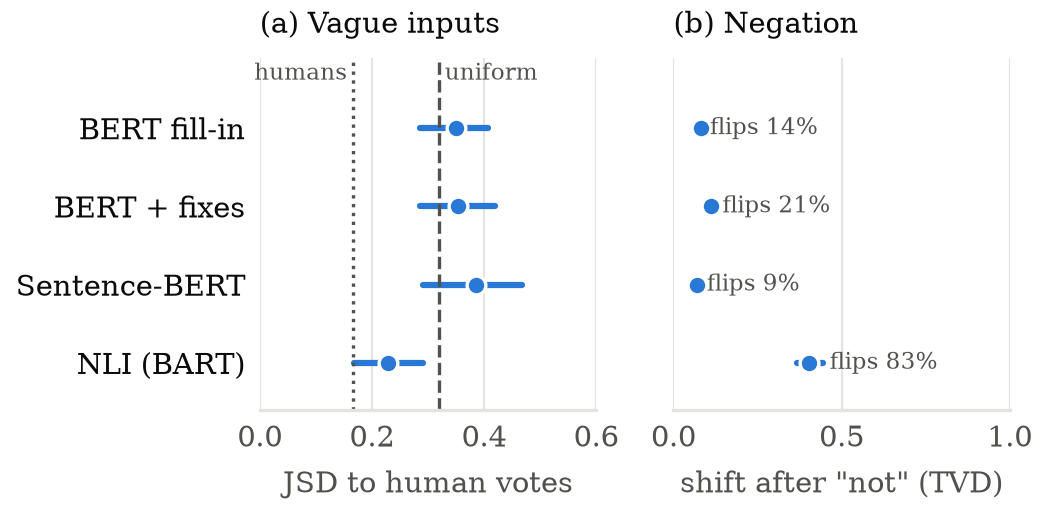
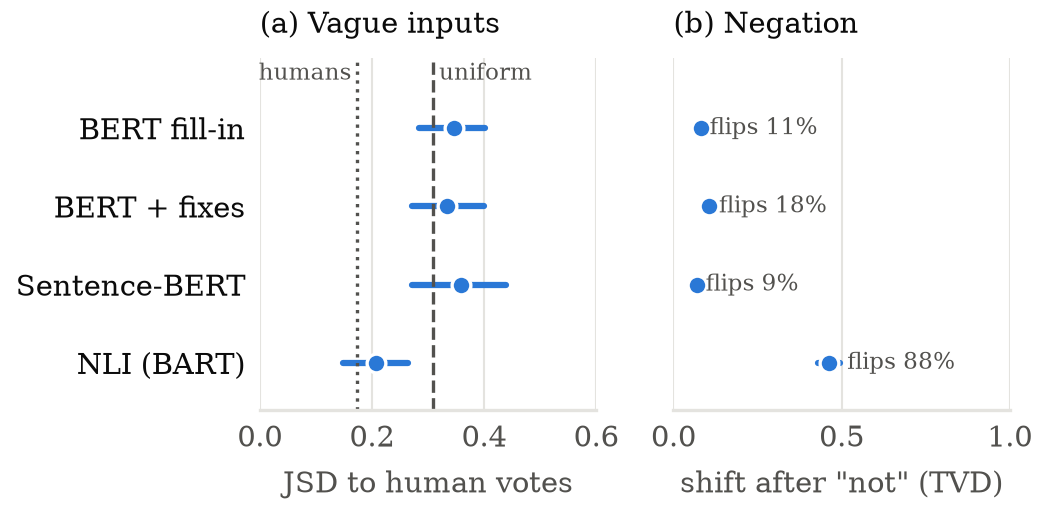
Re-run report tables with the invented world; update STATUS for Divergent and tables

diff --git a/results/report/fig1_q3.tex b/results/report/fig1_q3.tex
@@ -1,6 +1,6 @@
 \begin{figure}[t]
 \centering
 \includegraphics[width=\columnwidth]{fig1_q3.pdf}
-\caption{Q3, with group descriptions. (a) Jensen--Shannon divergence between each model and the human votes (10 respondents after the attention check) on 17 vague items, with the JSD of a uniform guess and between two random halves of the respondents. (b) Total variation between a character's traits and the same traits each preceded by ``not'' (78 characters); lines are 95\% bootstrap CIs.}
+\caption{Q3, with group descriptions. (a) Jensen--Shannon divergence between each model and the human votes (10 respondents after the attention check) on 20 vague items, with the JSD of a uniform guess and between two random halves of the respondents. (b) Total variation between a character's traits and the same traits each preceded by ``not'' (110 characters); lines are 95\% bootstrap CIs.}
 \label{fig:q3}
 \end{figure}

diff --git a/results/report/table2_q1q2.tex b/results/report/table2_q1q2.tex
@@ -11,6 +11,7 @@ World & Chance & Human & BERT fill-in & BERT + fixes & Sentence-BERT & NLI (BART
 Harry Potter & 25 & 70 & 24 {\tiny[12,38]} & 26 {\tiny[12,41]} & 44 {\tiny[26,62]} & 50 {\tiny[32,68]} & 24$\to$24 (18) & 50$\to$41 (24) \\
 Avatar & 25 & -- & 14 {\tiny[4,29]} & 21 {\tiny[7,36]} & 29 {\tiny[14,46]} & 29 {\tiny[11,46]} & 11$\to$25 (21) & 36$\to$29 (29) \\
 Game of Thrones & 20 & -- & 19 {\tiny[0,38]} & 25 {\tiny[6,50]} & 31 {\tiny[12,56]} & 44 {\tiny[19,69]} & 19$\to$19 (12) & 19$\to$19 (19) \\
+Invented & 25 & 85 & 25 {\tiny[12,41]} & 22 {\tiny[9,38]} & 19 {\tiny[6,34]} & 97 {\tiny[91,100]} & 25$\to$25 (25) & 94$\to$94 (0) \\
 \bottomrule
 \end{tabular}
 \end{table*}

diff --git a/results/report/table1_data.tex b/results/report/table1_data.tex
@@ -10,7 +10,7 @@ Harry Potter & 4 & 34 & 155 & 70 & 0.37 \\
 Avatar & 4 & 28 & 175 & -- & -- \\
 Game of Thrones & 5 & 16 & 115 & -- & -- \\
 Divergent$^\dagger$ & 5 & 4 & 74 & 90 & 0.69 \\
-Invented & 4 & 0 & 0 & -- & -- \\
+Invented & 4 & 32 & 147 & 85 & 0.60 \\
 \bottomrule
 \end{tabular}
 \\[2pt]\parbox{\columnwidth}{\scriptsize $^\dagger$Only 4 characters (all Dauntless): the source has no personality text for the other factions. Its human items are designed single- and two-faction probes, so its $\kappa$ is not comparable to the others.}

diff --git a/STATUS.md b/STATUS.md
@@ -8,14 +8,14 @@ A one-page snapshot for everyone, and for your AI assistant. Details live in [DA
 |---|---|
 | Data: HP (Ana) | ✅ done: 34 characters, test rows, human baseline (70%, κ 0.37) |
 | Data: Avatar (Esther) | ✅ 28 characters + shortcut pairs; 🛑 agreement sheets not scored yet |
-| Data: Divergent (Thais) | 🟡 only **4** characters (her own experiment script exists) |
+| Data: Divergent (Thais) | 🟡 **4** characters (all Dauntless): every faction page on the wiki checked, no other character reaches 5 traits (DATA_LOG 2026-11-24); 🛑 **team decision** on the trait rule. ✅ 74 probes run (`experiments/divergent.py`); human baseline on probes 90%, κ 0.69 |
 | Data: Game of Thrones (Fardin) | ✅ 16 characters (Tyrell = Olenna only) + test rows; 🛑 agreement sheets sent, not scored yet |
 | Data: Invented (Ana + Esther) | ✅ 32 personas (8 per house) + test rows; agreement scored (85%, κ 0.60); run done |
 | Human form | ✅ 19 responses (10 after the attention rule, decided in advance) |
 | Shared runner `run_experiments.py` | ✅ 23,400 predictions: HP, Avatar, Divergent, GoT, Invented (4 methods + 3 fixes each) |
 | Fixes for the "always Gryffindor" problem | ✅ all tried and reported (see below) |
 | App (Gradio, Ana) | 🟡 starter works (`app/app.py`); polish + deploy to do |
-| Tables and figure for the report | ⏳ next |
+| Tables and figure for the report | ✅ `make_tables.py` → `results/report/` (Table 1, Table 2 with the invented world, a Q3 figure); Fardin's `results/q2q3/fig1` also exists: **pick one Figure 1**. Re-run `make_tables.py` when the Avatar/GoT κ arrive |
 | Report text | ⏳ not started; who writes what is in REPORT_ROADMAP.md §5 |
 
 ## What we've found so far (HP; Avatar looks the same)
@@ -36,7 +36,7 @@ A one-page snapshot for everyone, and for your AI assistant. Details live in [DA
 
 | Who | To do |
 |---|---|
-| **Thais** | Add Divergent characters (target ~25), then `make_tests.py divergent` (**after** your `divergent.py build`), then `run_experiments.py run divergent`. Write the **Introduction** (REPORT_ROADMAP.md §5). Fill in your Avatar agreement sheet if you haven't yet. |
+| **Thais** | ✅ Introduction written · ✅ Tables 1–2 (`make_tables.py`) · ✅ Divergent wiki fully checked (4 characters; needs the team's rule decision to add more) · App polish + deploy (with Ana) · Fill in your Avatar agreement sheet if you haven't yet. |
 | **Fardin** | GoT data and first run done (DATA_LOG, 2026-11-23). Next: score the GoT agreement sheets when they come back. Write **Results Q2 + Q3 / Figure 1**. |
 | **Esther** | Build the Invented personas; score the Avatar agreement sheets (`agreement.py score avatar`). Write **Methods: models and stats** and the **Conclusion**. Note: `sorter.py` got an optional `name=` and extra fix methods (see CLAUDE.md); plain `mlm` is unchanged. |
 | **Ana** | Polish and deploy the app (`app/README.md`). Write **Methods: data** + **Results Q1 / Table 2**. |

diff --git a/DATA_LOG.md b/DATA_LOG.md
@@ -5,6 +5,15 @@ Newest entries at the top. Anything that goes in the report's Data or Limitation
 
 ---
 
+## 2026-11-24 · Report tables re-run with the invented world
+`run_experiments.py summary` + `make_tables.py` re-run after the invented world was merged. Nothing in the code or the choices changed.
+- **Table 1:** invented 32 personas, human accuracy 85%, κ 0.60. Avatar and GoT κ still missing.
+- **Table 2 (with descriptions):** invented world: NLI **97%** [91, 100], BERT fill-in 25%, Sentence-BERT 19%, BERT + fixes 22% (chance 25%).
+- **Figure 1:** now 20 vague items (invented added) and 110 negation pairs. JSD to humans: NLI 0.21, BERT fill-in 0.35, uniform 0.31. Negation: BERT fill-in TVD 0.08 (11% flips), NLI 0.46 (88%).
+- **Caveat for Q1 (must be in the report):** the invented personas were written from synonyms of the house descriptions, so with descriptions in the prompt the invented world is easier **by construction**. NLI's 97% there vs. 29–50% on the real franchises says NLI reads in-prompt descriptions well; it is not evidence that BERT "reasons better without memory". The fill-in BERT stays at chance in every world, invented included.
+
+---
+
 ## 2026-11-23 · Step 6 results: Q2 and Q3 (Fardin)
 Computed with `analysis_q2q3.py` exactly as fixed in the entry further down (committed first, 3599562). Output: `results/q2q3/` (`SUMMARY.md` has every table; fix methods in `*_fixes.csv`). **Worlds: hp, divergent, got, avatar, invented.** The invented world's predictions landed on main while this was in review; the fixed rule says every world in `all.csv` is included, so the analysis was re-run with it. Checked: no_name accuracies with template-averaged probabilities match `summary_q1q2.csv` exactly; 8 new tests in `tests/test_analysis_q2q3.py`.
 
